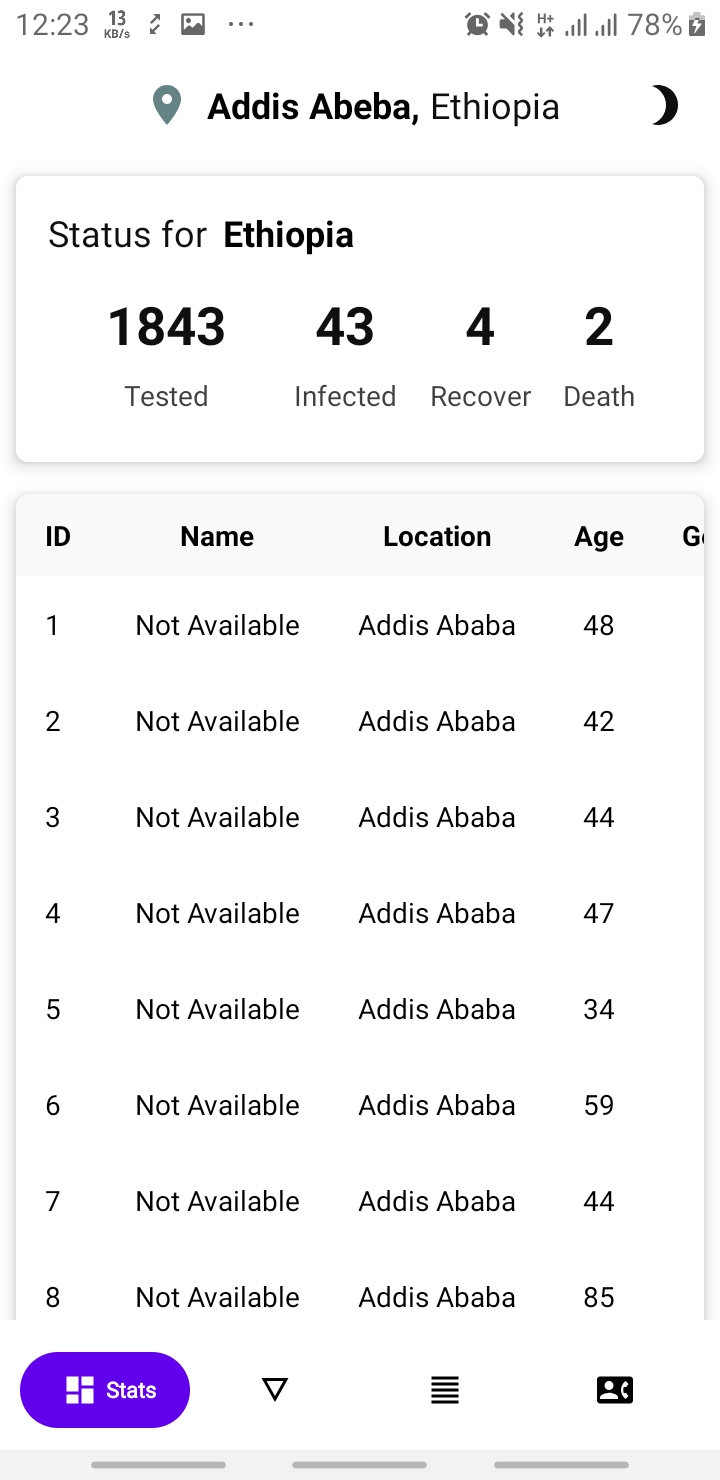
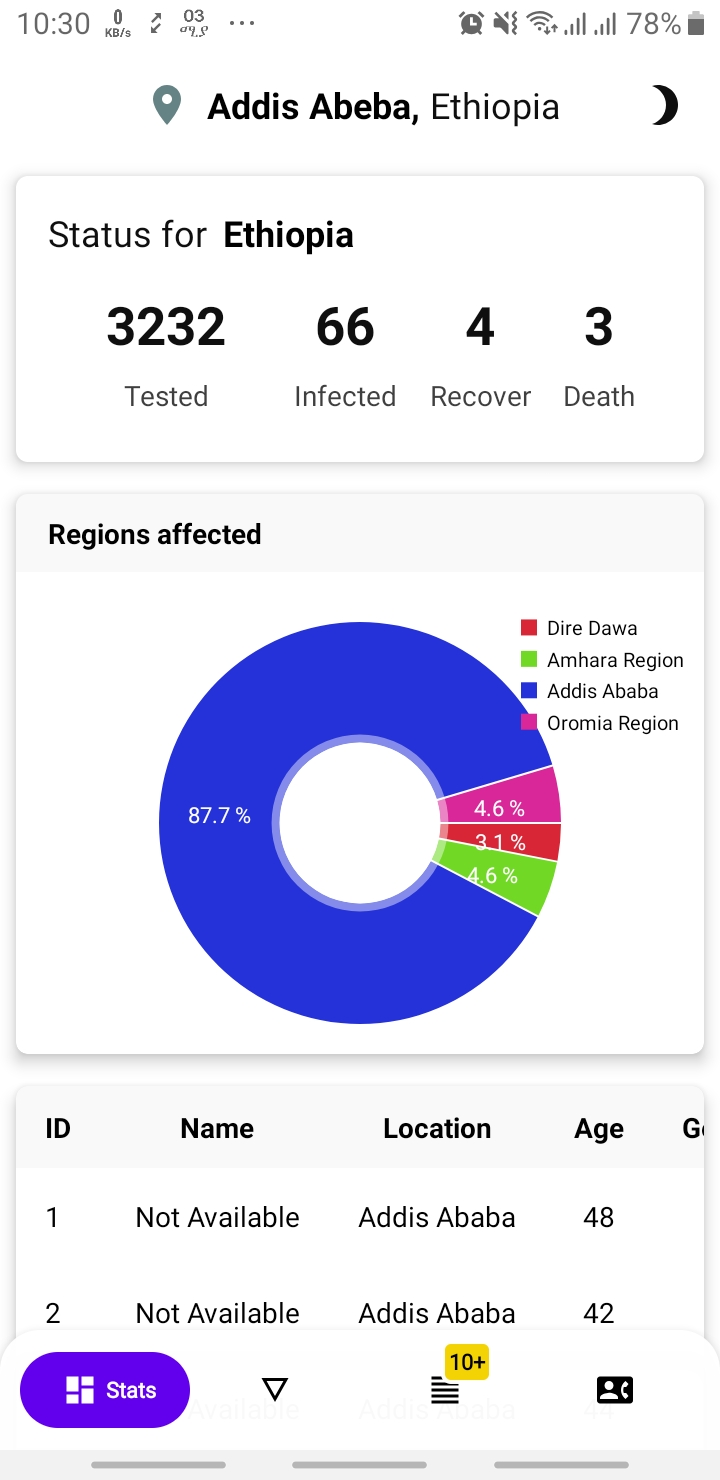
doc: update screenshots and readme

diff --git a/README.md b/README.md
@@ -7,23 +7,27 @@
 <tr>
 <td><img src="screenshots/1.jpg" width="150" /></td>
 <td><img src="screenshots/2.jpg" width="150" /></td>
+<td><img src="screenshots/6.jpg" width="150" /></td>
 <td><img src="screenshots/3.jpg" width="150" /></td>
 <td><img src="screenshots/4.jpg" width="150" /></td>
+<td><img src="screenshots/5.jpg" width="150" /></td>
 </tr>
 <tr>
-<td><p align="center">Dark - Current cases from PMO API</p></td>
-<td><p align="center">Dark - Current cases worldwide</p></td>
-<td><p align="center">Light - Current cases from PMO API</p></td>
-<td><p align="center">Light - Current cases worldwide</p></td>
+<td><p align="center">Dark - Current cases and affected regions from PMO API</p></td>
+<td><p align="center">Dark - Current cases worldwide and historical data</p></td>
+<td><p align="center">Dark - FAQs about COVID19 from WHO website</p></td>
+<td><p align="center">Light - Current cases and affected regions from PMO API</p></td>
+<td><p align="center">Light - Current cases worldwide and historical data</p></td>
+<td><p align="center">Light - FAQs about COVID19 from WHO website</p></td>
 </tr>
 </table>
 
 ## Features
 
 * [X] Statistics on COVID19
+* [X] Readable contents about the virus
 * [ ] News about COVID19 from valid sources
-* [ ] Readable contents about the virus
-* [ ] Tracking to know where you went
+* [ ] Questionnaire to check how you are feeling
 * [ ] SOS button for calling ambulance
 
 ## Contribution
